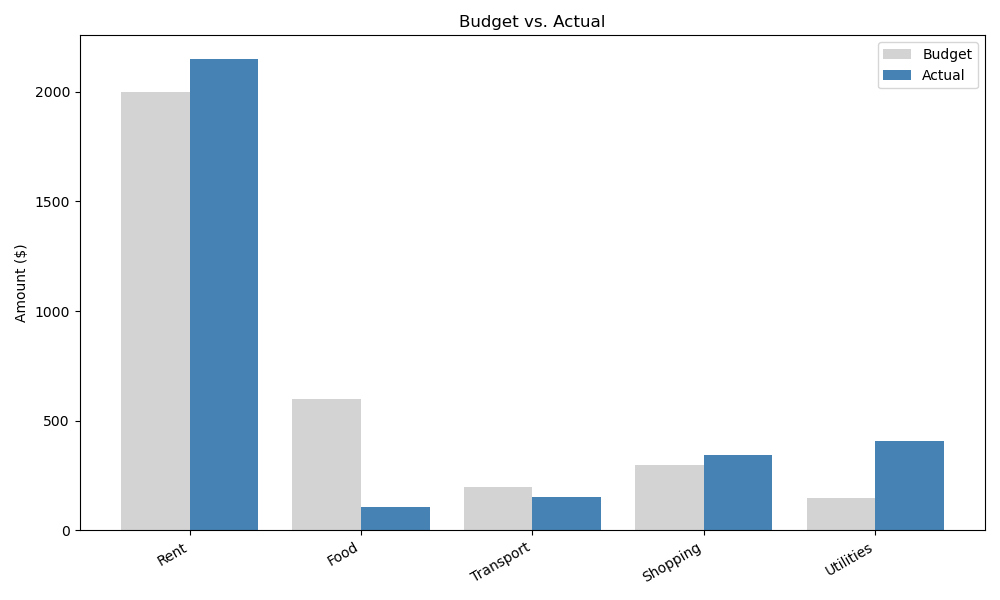
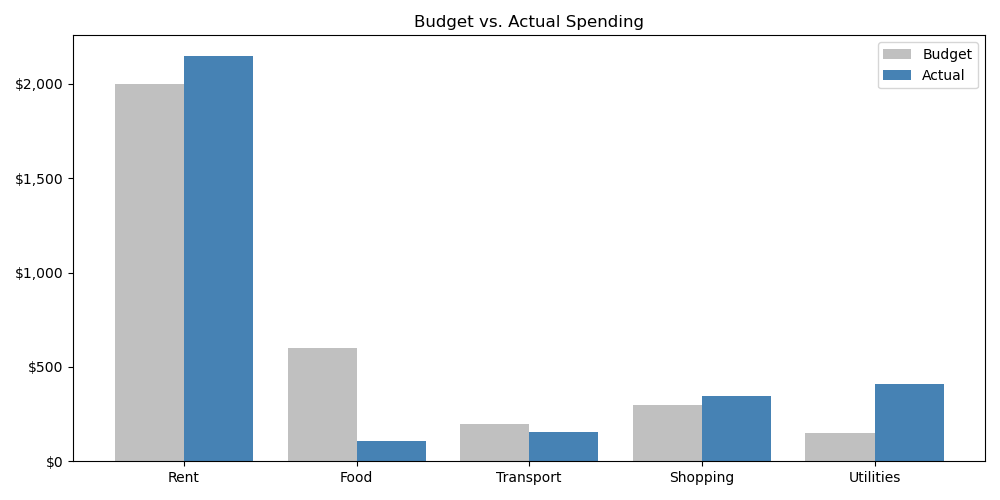
updated formatting of chart

diff --git a/Final Project copy/project.py b/Final Project copy/project.py
@@ -1,5 +1,5 @@
 import csv, sys, datetime
-import matplotlib.pyplot as plt
+import matplotlib.pyplot as plt, matplotlib.ticker as mtick
 
 def main():
     if len(sys.argv) != 2: sys.exit("Usage: python project.py transactions.csv")
@@ -32,11 +32,9 @@ def main():
     for cat, limit in BUDGET_TARGETS.items():
         actual = totals[cat]
         status = "OVER" if (limit - actual) < 0 else "Safe"
-        print(f"{cat:<12} | ${limit:<8.0f} | ${actual:<8.0f} | {status}")
-    
+        print(f"{cat:<12} | ${limit:<8,.0f} | ${actual:<8,.0f} | {status}")
     if totals["Other"] > 0:
-        print(f"{'-'*45}\n{'Other':<12} | {'N/A':<8} | ${totals['Other']:<8.0f} | Review!")
-
+        print(f"{'-'*45}\n{'Other':<12} | {'N/A':<8} | ${totals['Other']:<8,.0f} | Review!")
     visualize_data(BUDGET_TARGETS, totals)
 
 def get_clean_data(filename):
@@ -46,22 +44,22 @@ def get_clean_data(filename):
         with open(filename, encoding="utf-8-sig") as f:
             for row in csv.DictReader(f):
                 # Normalize keys and clean amount string 
-                r = {k.strip().lower(): v for k, v in row.items() if k}
-                amt_str = r.get("amount", "").replace("$", "").replace(",", "")
+                r = {k.strip().lower(): (v or "") for k, v in row.items() if k}
+                amt_str = r.get("amount", "").replace("$", "").replace(",", "").strip()
                 if not amt_str: continue
                 try:
                     # Handle accounting negatives e.g. ($100)
-                    if "(" in amt_str: amt_str = "-" + amt_str.replace("(", "").replace(")", "")
+                    if "(" in amt_str and ")" in amt_str: amt_str = "-" + amt_str.replace("(", "").replace(")", "")
                     # Handle date formats (4 digit year vs. 2 digit year)
                     d_str = r.get("date", "").strip()
+                    if not d_str: continue
                     fmt = "%m/%d/%Y" if len(d_str.split("/")[-1]) == 4 else "%m/%d/%y"
-
                     clean_rows.append({
                         "date": datetime.datetime.strptime(d_str, fmt),
-                        "desc": r.get("description", "").lower(),
+                        "desc": r.get("description", "").strip().lower(),
                         "amount": float(amt_str)
                     })
-                except ValueError: continue
+                except (ValueError, TypeError): continue
     except FileNotFoundError: sys.exit("File not found")
     return clean_rows
 
@@ -69,15 +67,16 @@ def visualize_data(targets, actuals):
     """Generates comparison bar chart."""
     categories = list(targets.keys())
     x = range(len(categories))
-
     plt.figure(figsize=(10, 5))
     plt.bar([i-0.2 for i in x], targets.values(), 0.4, label="Budget", color="silver")
     plt.bar([i+0.2 for i in x], [actuals[c] for c in categories], 0.4, label="Actual", color="#4682b4")
     plt.xticks(list(x), categories)
+    plt.gca().yaxis.set_major_formatter(mtick.StrMethodFormatter("${x:,.0f}"))
     plt.title("Budget vs. Actual Spending")
     plt.legend()
     plt.tight_layout()
     plt.savefig("spending_chart.png")
+    plt.close()
     print("\nChart generated: spending_chart.png")
 
 if __name__ == "__main__":
